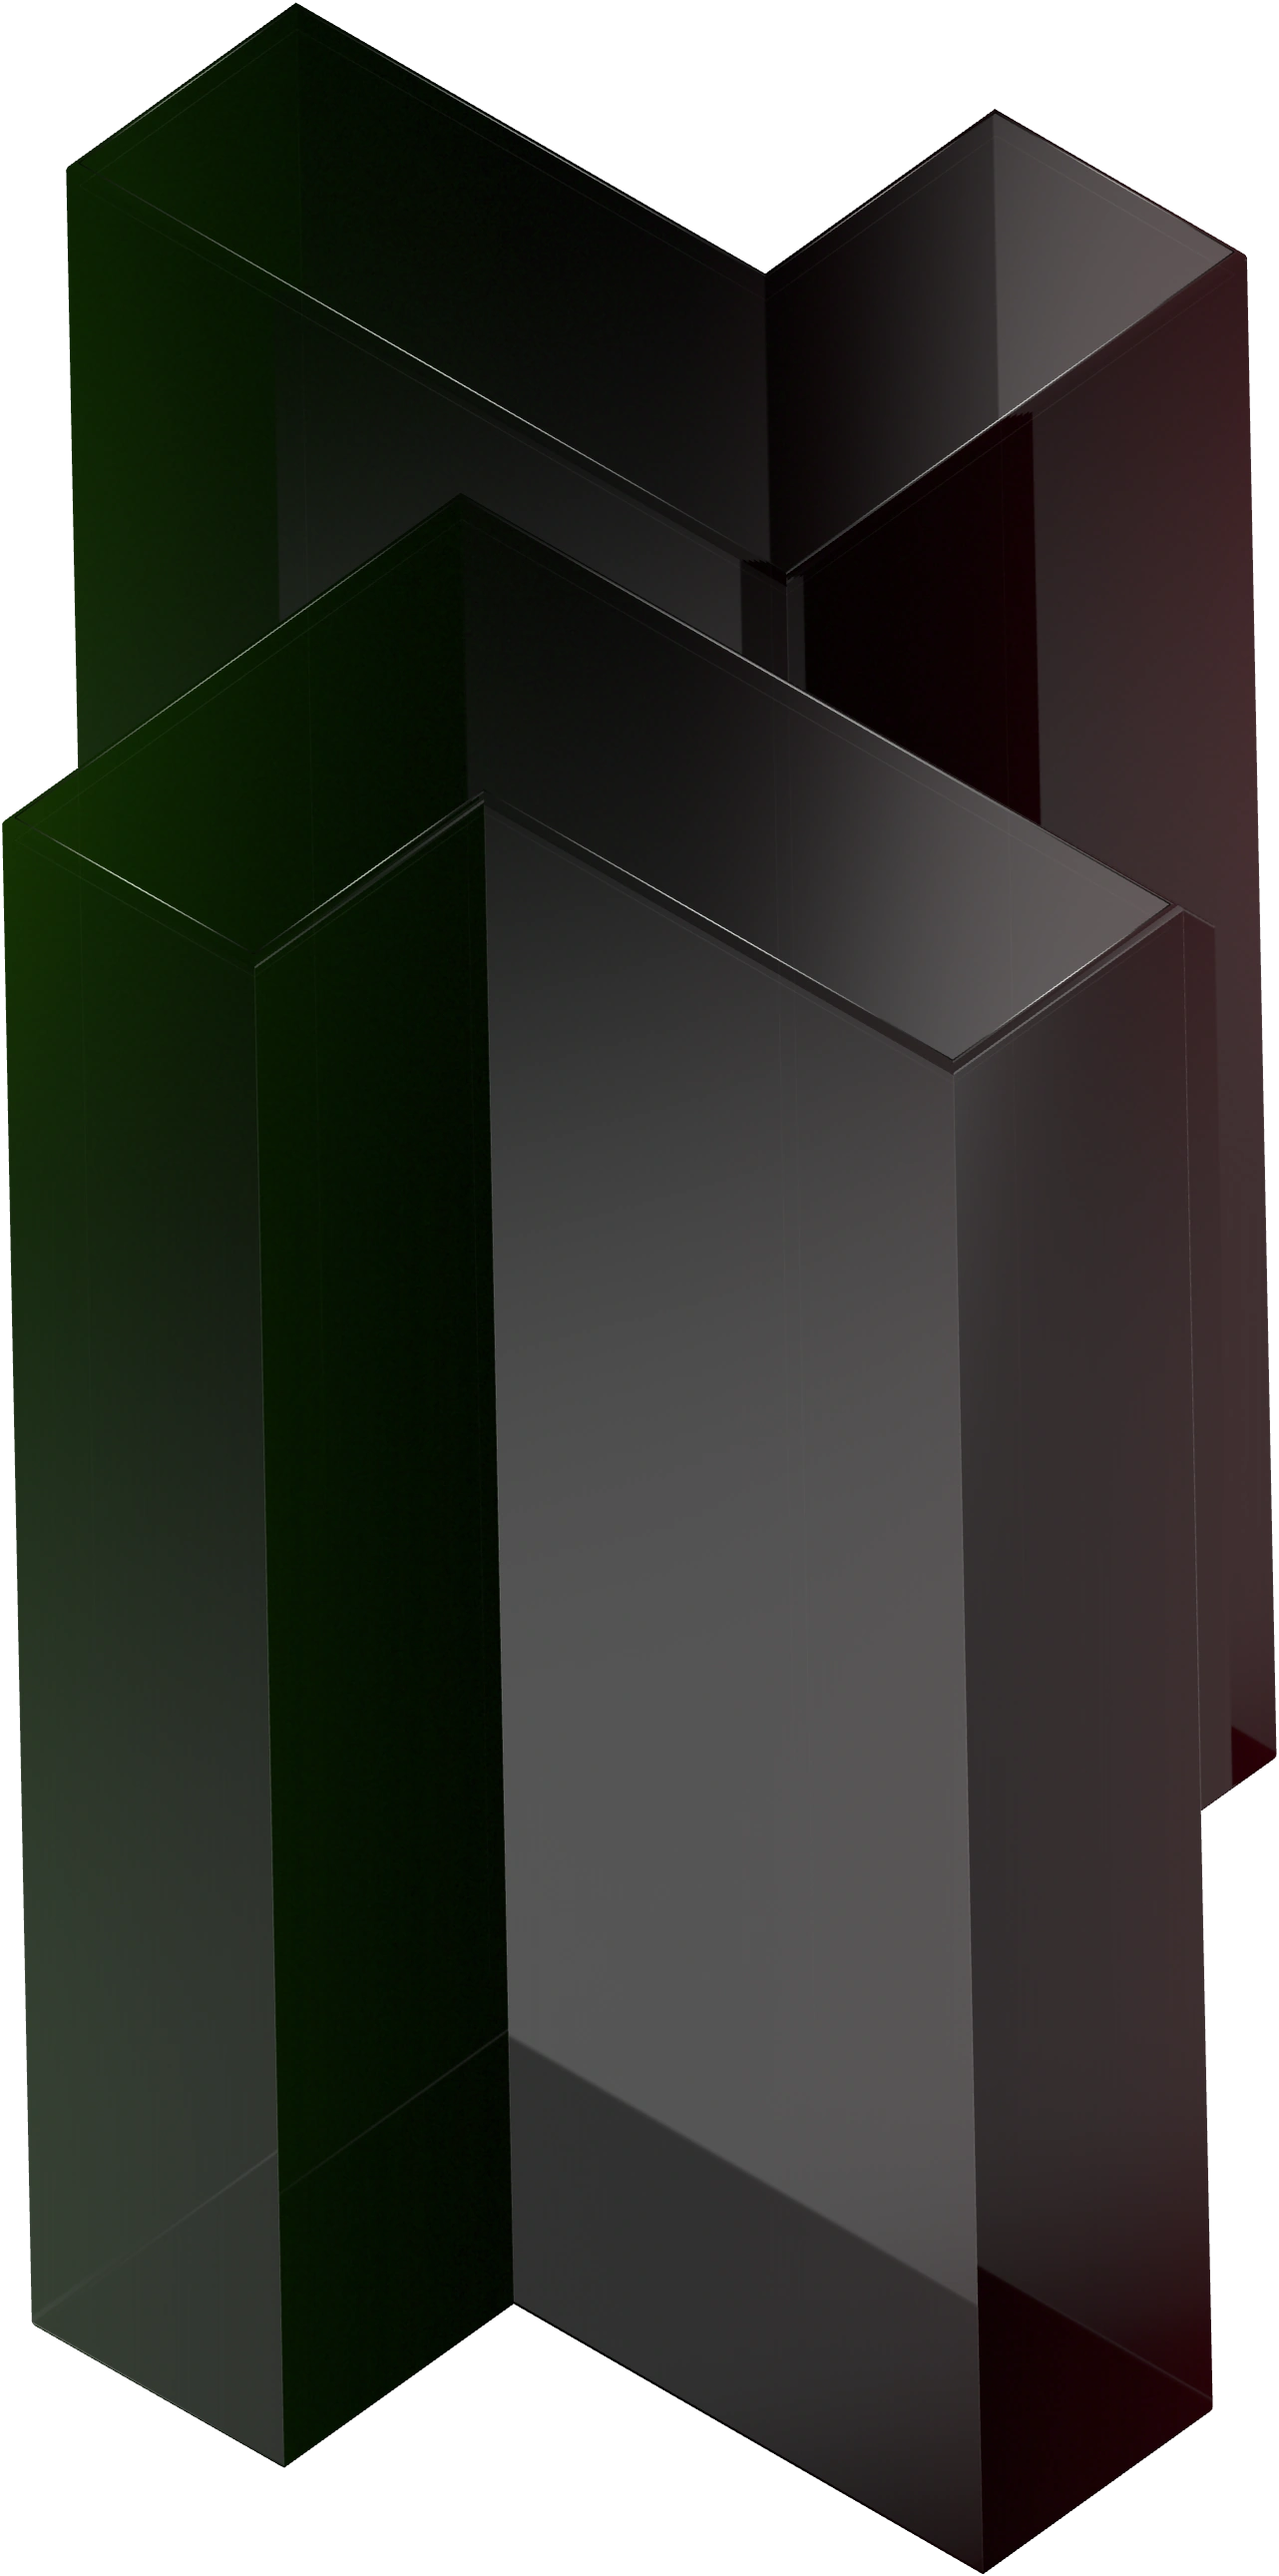
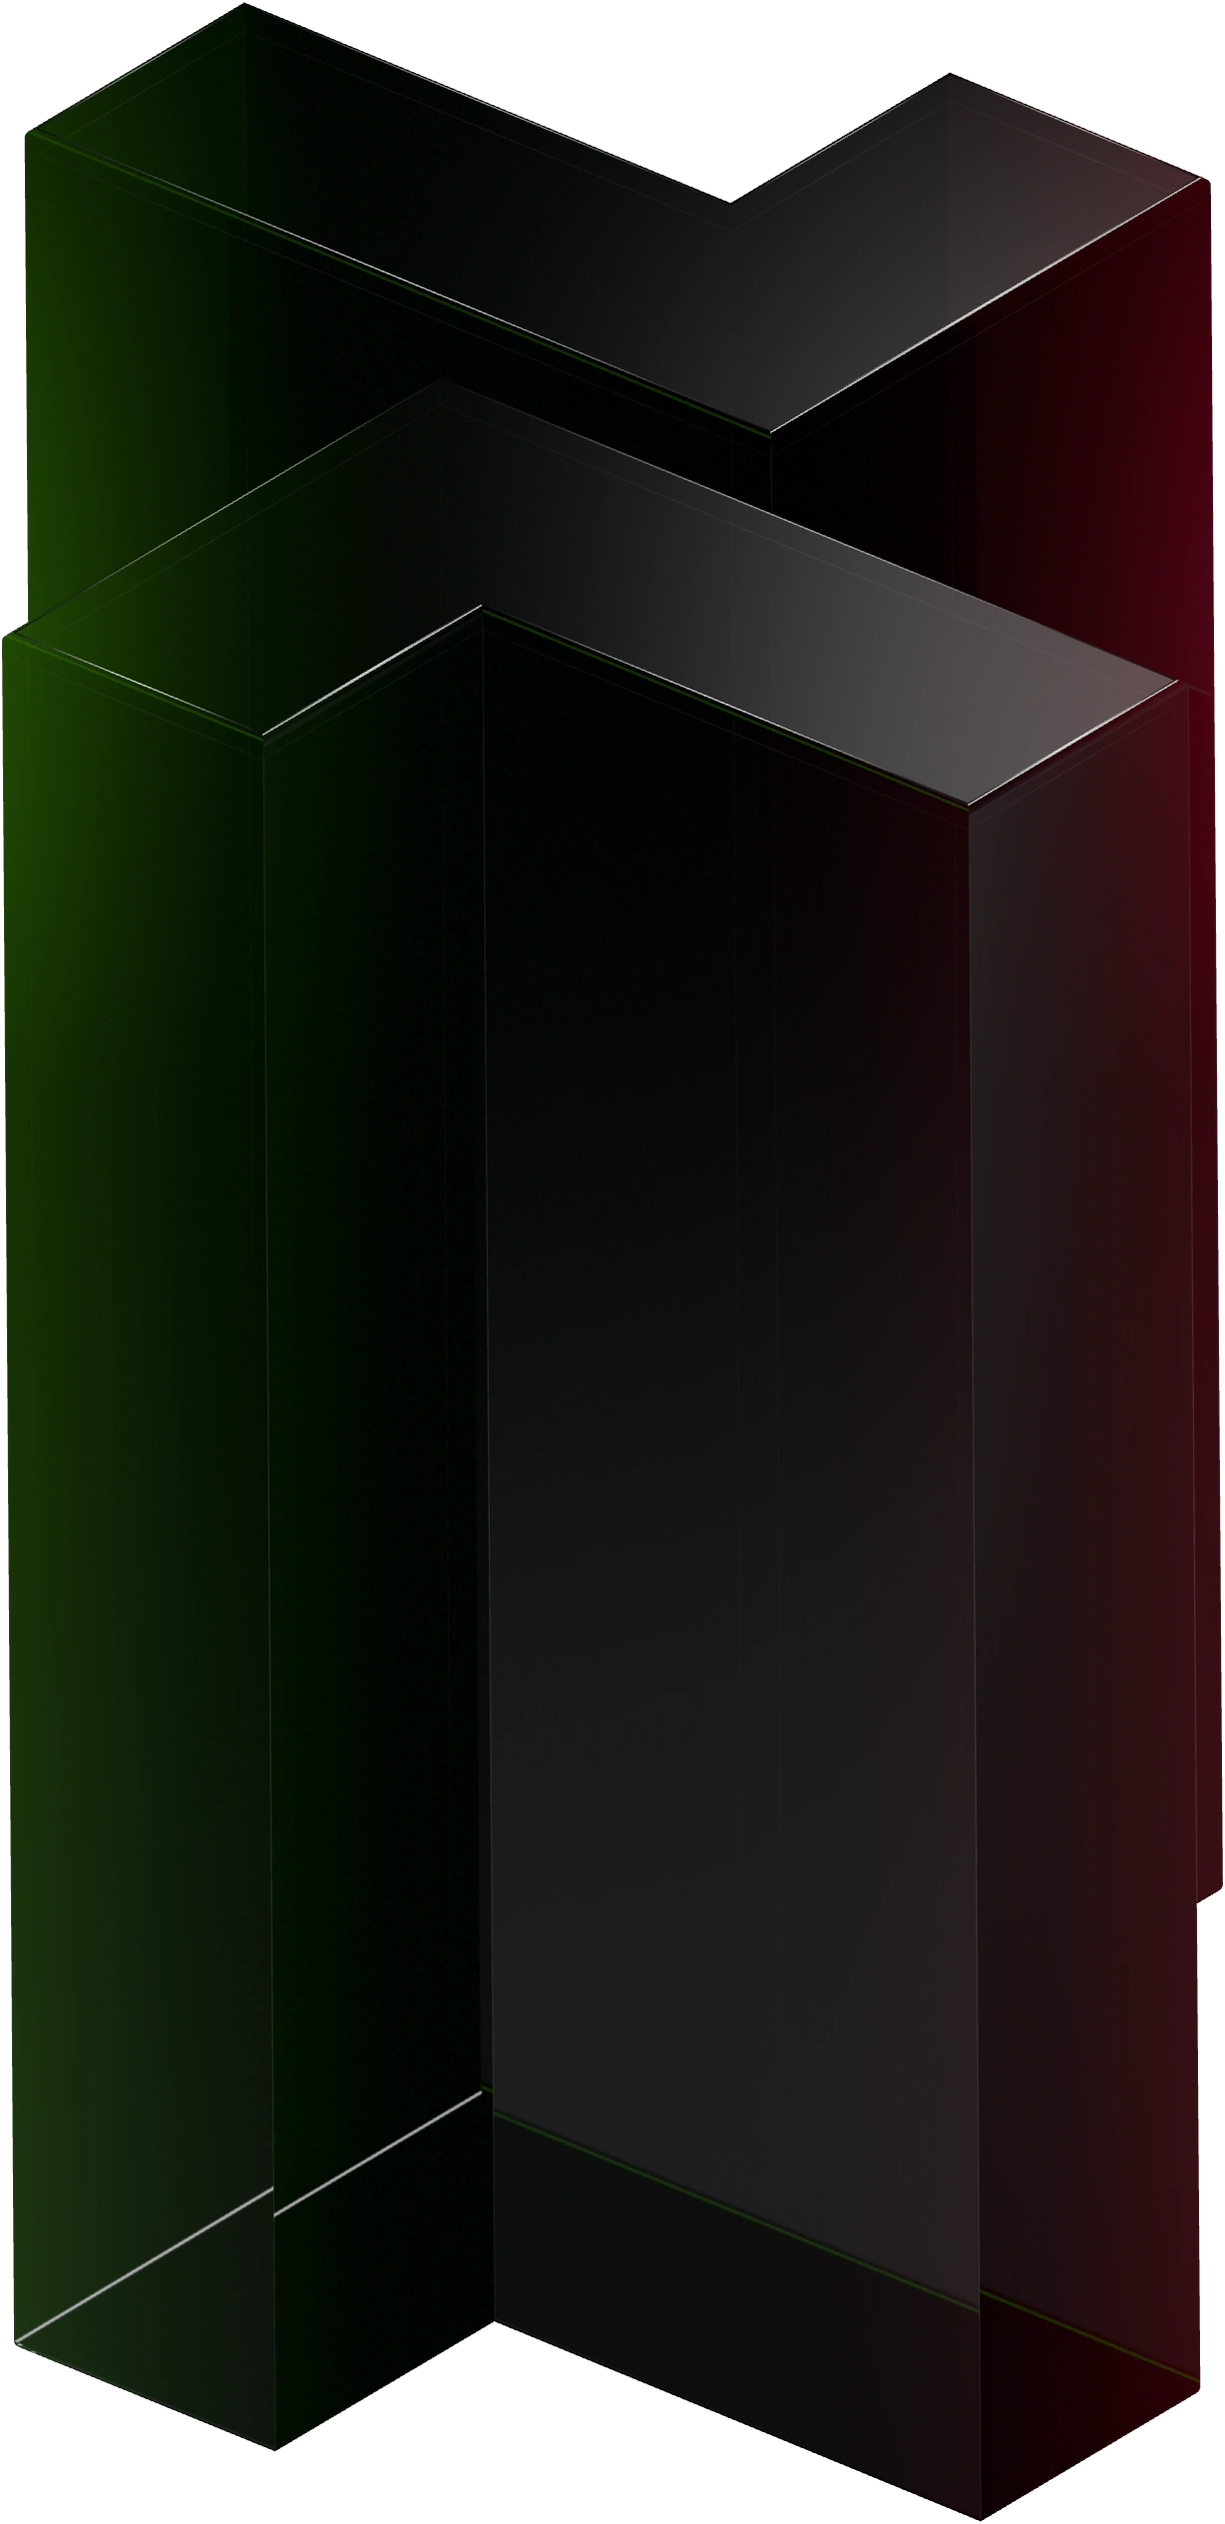
update scene defaults

diff --git a/tests/interactions.spec.ts b/tests/interactions.spec.ts
@@ -78,8 +78,8 @@ test("debug settings copy current values and reset requires confirmation", async
     await page.evaluate(() => navigator.clipboard.readText()),
   );
   expect(copied.exposure).toBe(1.25);
-  expect(copied.rimShimmerDuration).toBe(10);
-  expect(copied.greenTint).toBe("#07351b");
+  expect(copied.rimShimmerDuration).toBe(7.5);
+  expect(copied.greenTint).toBe("#51ea27");
   page.once("dialog", async (dialog) => {
     expect(dialog.type()).toBe("confirm");
     await dialog.dismiss();
@@ -88,7 +88,7 @@ test("debug settings copy current values and reset requires confirmation", async
   await expect(exposure).toHaveValue("1.25");
   page.once("dialog", (dialog) => dialog.accept());
   await page.getByRole("button", { name: "Reset to demo" }).click();
-  await expect(exposure).toHaveValue("0.90");
+  await expect(exposure).toHaveValue("0.72");
 });
 
 test("production loads debug modules only with the debug query", async ({
@@ -177,7 +177,7 @@ test("background controls update, copy, and restore the shared backdrop", async 
   expect(copied).not.toHaveProperty("backgroundSmoothing");
   expect(copied.backgroundRadius).toBe(1.2);
   expect(copied.backgroundFade).toBe(0.75);
-  expect(copied.backgroundIntensity).toBe(0.32);
+  expect(copied.backgroundIntensity).toBe(0.6);
   page.once("dialog", (dialog) => dialog.accept());
   await page.getByRole("button", { name: "Reset to demo" }).click();
   await expect.poll(background).toContain("/studio/hero-background.svg");
@@ -316,4 +316,51 @@ test("sustained slow frames lower quality and idle does not", async ({
   await expect(
     page.getByLabel("Preset", { exact: true }).locator("option:checked"),
   ).toHaveText("Preview");
+});
+
+test("clipboard import restores scene and performance values and rejects invalid input atomically", async ({
+  page,
+  context,
+}) => {
+  await context.grantPermissions(["clipboard-read", "clipboard-write"]);
+  await page.goto("/?debug");
+  await page.getByText("Quality", { exact: true }).click();
+  const exposure = page.getByLabel("Exposure", { exact: true });
+  const threshold = page.getByLabel("Minimum FPS", { exact: true });
+  await exposure.fill("1.25");
+  await exposure.press("Enter");
+  await threshold.fill("55");
+  await threshold.press("Enter");
+  await page
+    .getByRole("button", { name: "Copy settings", exact: true })
+    .click();
+  const copied = await page.evaluate(() => navigator.clipboard.readText());
+  page.once("dialog", (dialog) => dialog.accept());
+  await page.getByRole("button", { name: "Reset to demo" }).click();
+  await expect(exposure).toHaveValue("0.72");
+  await page.evaluate((text) => navigator.clipboard.writeText(text), copied);
+  await page.getByRole("button", { name: "Import from clipboard" }).click();
+  await expect(page.getByRole("status")).toHaveText("Settings imported.");
+  await expect(exposure).toHaveValue("1.25");
+  await expect(threshold).toHaveValue("55");
+  await page
+    .getByRole("button", { name: "Copy settings", exact: true })
+    .click();
+  expect(
+    JSON.parse(await page.evaluate(() => navigator.clipboard.readText())),
+  ).toEqual(JSON.parse(copied));
+  for (const text of [
+    "invalid json",
+    JSON.stringify({ exposure: 1.5, cameraY: "wrong" }),
+    JSON.stringify({ exposure: 100 }),
+    JSON.stringify({ greenTint: "not a color" }),
+    "[]",
+  ]) {
+    await page.evaluate((text) => navigator.clipboard.writeText(text), text);
+    await page.getByRole("button", { name: "Import from clipboard" }).click();
+    await expect(page.getByRole("status")).toContainText(
+      "Could not import settings:",
+    );
+    await expect(exposure).toHaveValue("1.25");
+  }
 });

diff --git a/app/components/hero-debug.tsx b/app/components/hero-debug.tsx
@@ -392,6 +392,82 @@ export default function HeroDebug({
       >
         Copy settings
       </button>
+      <button
+        type="button"
+        onClick={async () => {
+          let text: string;
+          try {
+            text = await navigator.clipboard.readText();
+          } catch {
+            setCopyStatus(
+              "Could not read clipboard. Please allow clipboard access and try again.",
+            );
+            return;
+          }
+          try {
+            const parsed: unknown = JSON.parse(text);
+            if (
+              !parsed ||
+              typeof parsed !== "object" ||
+              Array.isArray(parsed)
+            ) {
+              throw new Error("Copy settings JSON first.");
+            }
+            const imported: Partial<SceneSettings> = {};
+            const controls = Object.entries(store.getData());
+            for (const [key, value] of Object.entries(parsed)) {
+              if (!Object.hasOwn(defaults, key)) continue;
+              const defaultValue = defaults[key as keyof SceneSettings];
+              if (typeof value !== typeof defaultValue)
+                throw new Error(`Invalid value for ${key}.`);
+              if (typeof value === "number") {
+                const control = controls.find(([path]) =>
+                  path.endsWith(`.${key}`),
+                )?.[1];
+                const bounds = (
+                  control && "settings" in control
+                    ? control.settings
+                    : undefined
+                ) as { min?: number; max?: number } | undefined;
+                if (
+                  !Number.isFinite(value) ||
+                  (bounds?.min !== undefined && value < bounds.min) ||
+                  (bounds?.max !== undefined && value > bounds.max)
+                ) {
+                  throw new Error(`Value out of range for ${key}.`);
+                }
+              }
+              if (
+                typeof value === "string" &&
+                !/^#(?:[\da-f]{3}|[\da-f]{6})$/i.test(value)
+              ) {
+                throw new Error(`Invalid color for ${key}.`);
+              }
+              Object.assign(imported, { [key]: value });
+            }
+            if (!Object.keys(imported).length)
+              throw new Error("No recognized settings found.");
+            const { autoQuality, fpsThreshold, fpsDuration, ...sceneValues } =
+              imported;
+            set(sceneValues);
+            setPerformance({
+              autoQuality: autoQuality ?? performanceSettings.autoQuality,
+              fpsThreshold: fpsThreshold ?? performanceSettings.fpsThreshold,
+              fpsDuration: fpsDuration ?? performanceSettings.fpsDuration,
+            });
+            setCopyStatus("Settings imported.");
+          } catch (error) {
+            setCopyStatus(
+              error instanceof Error
+                ? `Could not import settings: ${error.message}`
+                : "Could not import settings.",
+            );
+          }
+        }}
+        className="mt-2 w-full rounded-lg bg-rose px-4 py-2 text-sm text-carbon hover:bg-rose/90 focus-visible:outline-2 focus-visible:outline-offset-2 focus-visible:outline-rose"
+      >
+        Import from clipboard
+      </button>
       <p role="status" className="px-1 text-sm text-foreground">
         {copyStatus}
       </p>

diff --git a/tests/rim-animation.spec.ts b/tests/rim-animation.spec.ts
@@ -30,12 +30,27 @@ function drawCount(page: Page) {
   );
 }
 
+async function useShimmerTestTiming(page: Page) {
+  // Exercise the quiet period and ten-second handoff independently of art defaults.
+  await page.goto("/?debug");
+  await page.getByLabel("Auto quality", { exact: true }).uncheck();
+  await page.locator("div").filter({ hasText: /^Rim$/ }).last().click();
+  for (const [label, value] of [
+    ["Repeat every (s)", "15"],
+    ["Sweep duration (s)", "10"],
+  ]) {
+    const input = page.getByLabel(label, { exact: true });
+    await input.fill(value);
+    await input.press("Enter");
+  }
+}
+
 test("idle rim shines, pauses offscreen, and resumes on return", async ({
   page,
 }) => {
   await page.emulateMedia({ reducedMotion: "no-preference" });
   const errors = await observeScene(page);
-  await page.goto("/");
+  await useShimmerTestTiming(page);
   const stage = page.locator("[data-hero-art]");
   await expect(stage).toHaveAttribute("data-ready", "true");
   // Sample the independent glint during its ten-second pass.
@@ -150,7 +165,7 @@ test("both rims fade to zero through the handoff", async ({ page }) => {
       return Reflect.apply(original, this, args);
     };
   });
-  await page.goto("/");
+  await useShimmerTestTiming(page);
   await expect(page.locator("[data-hero-art]")).toHaveAttribute(
     "data-ready",
     "true",

diff --git a/app/components/hero-settings.ts b/app/components/hero-settings.ts
@@ -7,37 +7,37 @@ export const DEFAULT_SCENE_SETTINGS = {
   autoQuality: true,
   fpsThreshold: 40,
   fpsDuration: 3,
-  cameraX: 4,
-  cameraY: 36,
+  cameraX: 1.7,
+  cameraY: 24.4,
   cameraZ: 55,
-  targetY: 6.45,
-  zoom: 1,
-  tilt: 12,
-  keyLight: 2,
-  fillLight: 0.45,
-  rimLight: 2,
-  greenLight: 2.2,
-  redLight: 2,
-  environmentIntensity: 1,
-  environmentBlur: 0.025,
-  roughness: 0.045,
+  targetY: 6.25,
+  zoom: 1.06,
+  tilt: 11.5,
+  keyLight: 0.9,
+  fillLight: 3,
+  rimLight: 1.5,
+  greenLight: 6,
+  redLight: 6,
+  environmentIntensity: 1.3,
+  environmentBlur: 0.09,
+  roughness: 0.075,
   transmission: 1,
-  thickness: 0.45,
-  ior: 1.28,
-  attenuationDistance: 8,
-  greenTint: "#07351b",
-  redTint: "#400e18",
+  thickness: 0.52,
+  ior: 1.17,
+  attenuationDistance: 15.8,
+  greenTint: "#51ea27",
+  redTint: "#ff0000",
   contours: true,
   rimShimmer: true,
-  rimShimmerInterval: 15,
-  rimShimmerDuration: 10,
-  rimShimmerStrength: 1.2,
+  rimShimmerInterval: 7,
+  rimShimmerDuration: 7.5,
+  rimShimmerStrength: 1.95,
   parallax: true,
-  parallaxStrength: 0.08,
-  rotationDamping: 2,
+  parallaxStrength: 0.19,
+  rotationDamping: 4,
   hover: true,
-  hoverDamping: 1.1,
-  exposure: 0.9,
+  hoverDamping: 8,
+  exposure: 0.72,
   dprLimit: 2,
   transmissionResolution: 1,
 };

diff --git a/app/components/hero-preview.tsx b/app/components/hero-preview.tsx
@@ -1,7 +1,10 @@
 import { getImageProps } from "next/image";
 import type { CSSProperties } from "react";
 import preview from "../../public/studio/hero-preview.json";
-import { SCENE_FRAMING } from "./hero-settings";
+import {
+  DEFAULT_SCENE_SETTINGS as defaults,
+  SCENE_FRAMING,
+} from "./hero-settings";
 
 const image = {
   alt: "",
@@ -32,7 +35,7 @@ export function HeroPreview() {
       style={
         {
           "--preview-aspect": `${preview.worldWidth} / ${preview.worldHeight}`,
-          "--preview-width": `min(100cqw, ${(SCENE_FRAMING.minWidth / SCENE_FRAMING.minHeight) * 100}cqh)`,
+          "--preview-width": `min(${defaults.zoom * 100}cqw, ${(SCENE_FRAMING.minWidth / SCENE_FRAMING.minHeight) * defaults.zoom * 100}cqh)`,
         } as CSSProperties
       }
     >

diff --git a/app/components/hero-background.ts b/app/components/hero-background.ts
@@ -1,8 +1,8 @@
 export const BACKGROUND_DEFAULTS = {
-  backgroundNoise: 0.1,
-  backgroundRadius: 0.975,
+  backgroundNoise: 0.08,
+  backgroundRadius: 0.725,
   backgroundFade: 0.6,
-  backgroundIntensity: 0.32,
+  backgroundIntensity: 0.6,
 };
 export type BackgroundSettings = typeof BACKGROUND_DEFAULTS;
 export const BACKGROUND_URL = "/studio/hero-background.svg";
